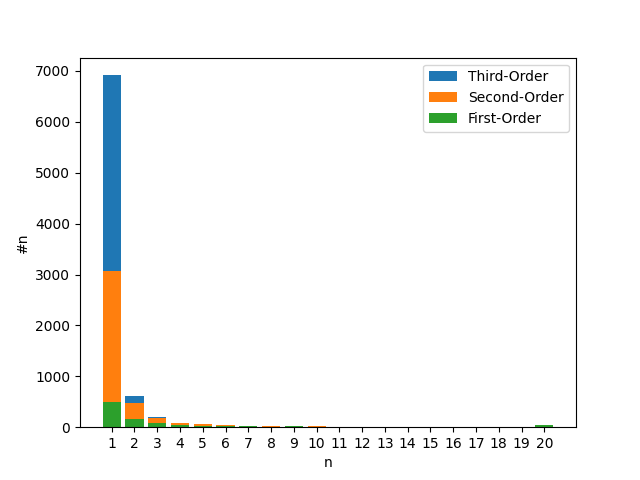
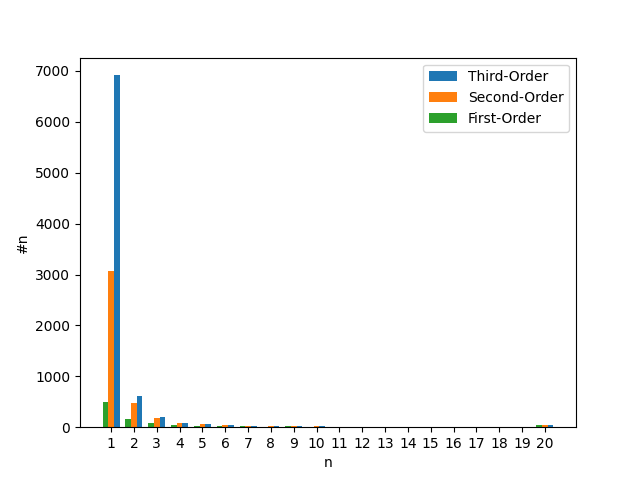
Add files via upload

diff --git a/Homework_03_starter/distinct_sequences.py b/Homework_03_starter/distinct_sequences.py
@@ -53,9 +53,9 @@ for x in xs:
     ys3.append(count)
 
 # Reversed to stop overlap
-plt.bar(xs, ys3, label = "Third-Order")
-plt.bar(xs, ys2, label = "Second-Order")
-plt.bar(xs, ys1, label = "First-Order")
+plt.bar([x + 0.25 for x in xs], ys3, width = 0.25, label = "Third-Order")
+plt.bar(xs, ys2, width = 0.25, label = "Second-Order")
+plt.bar([x - 0.25 for x in xs], ys1, width = 0.25, label = "First-Order")
 
 plt.xticks(xs)
 
